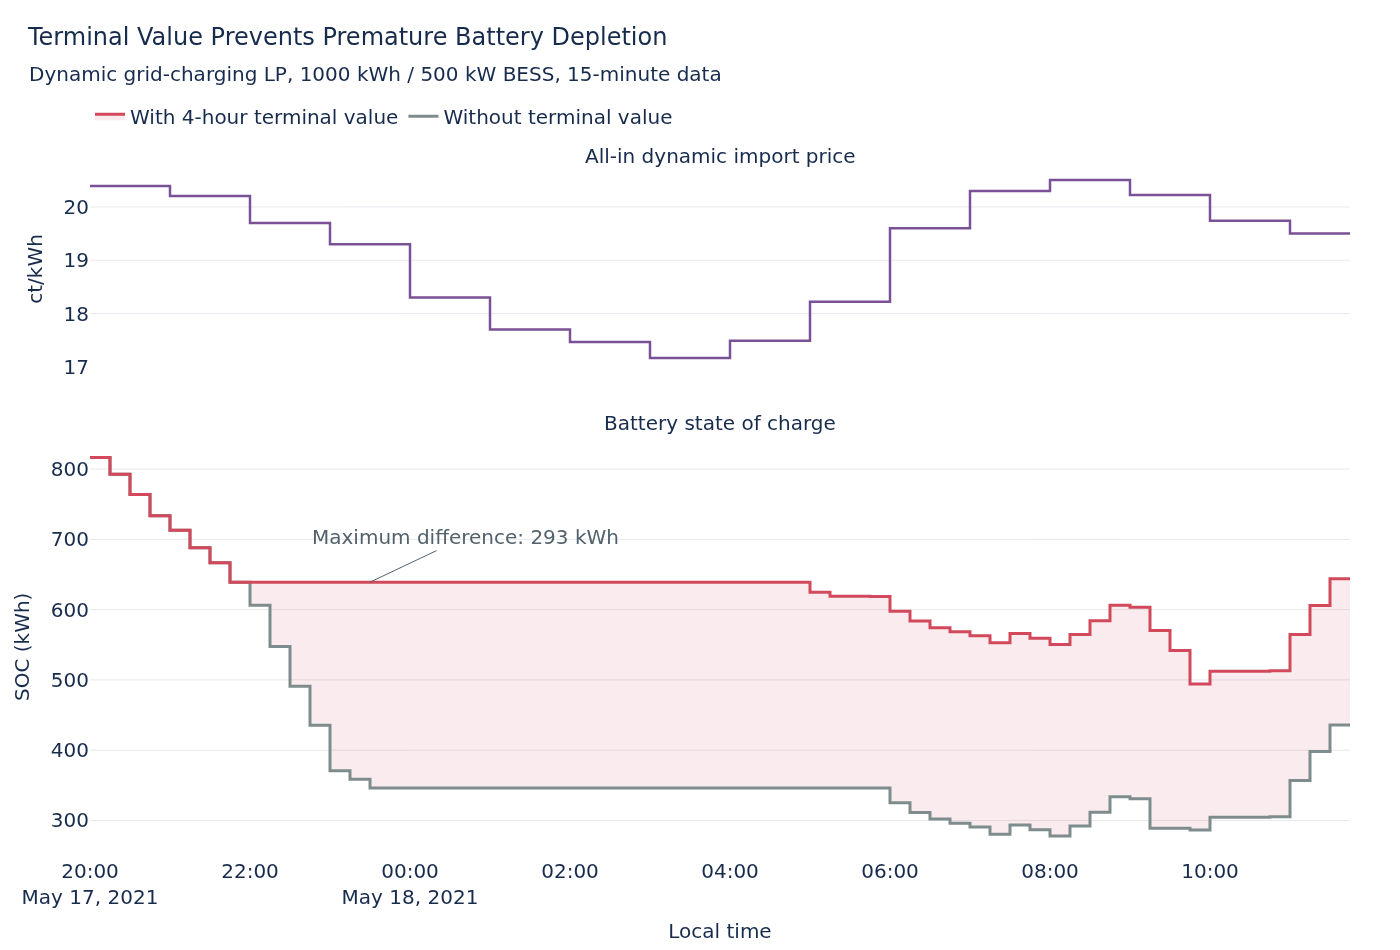
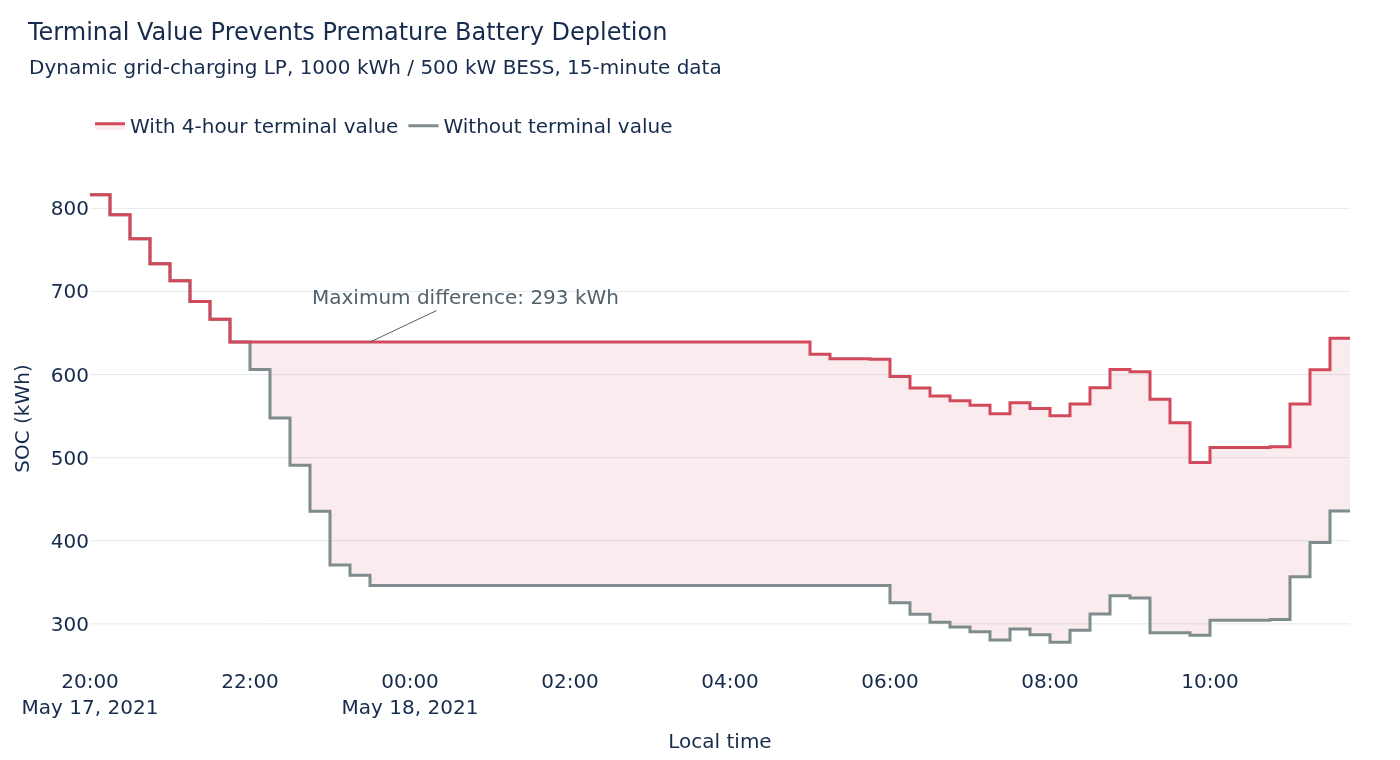
simplify terminal value chart

diff --git a/docs/battery/terminal_value_comparison.md b/docs/battery/terminal_value_comparison.md
@@ -41,8 +41,10 @@ annual cost effect is small, but the local dispatch effect can be substantial.
 The selected period contains the largest SOC difference in the annual dynamic
 grid-charging comparison. Without a terminal value, energy has no value beyond
 the active planning horizon and the LP begins discharging earlier. With the
-four-hour terminal value, the battery retains up to 293 kWh more energy and
-uses it in later intervals.
+four-hour terminal value, retaining the energy is more valuable at that point;
+the battery holds up to 293 kWh more energy for later intervals. The terminal
+value is derived from the mean all-in price over hours 20 to 24 of each rolling
+horizon, as described in the [LP model](lp_optimization.md#terminal-energy-value).
 
 ## Interpretation
 
